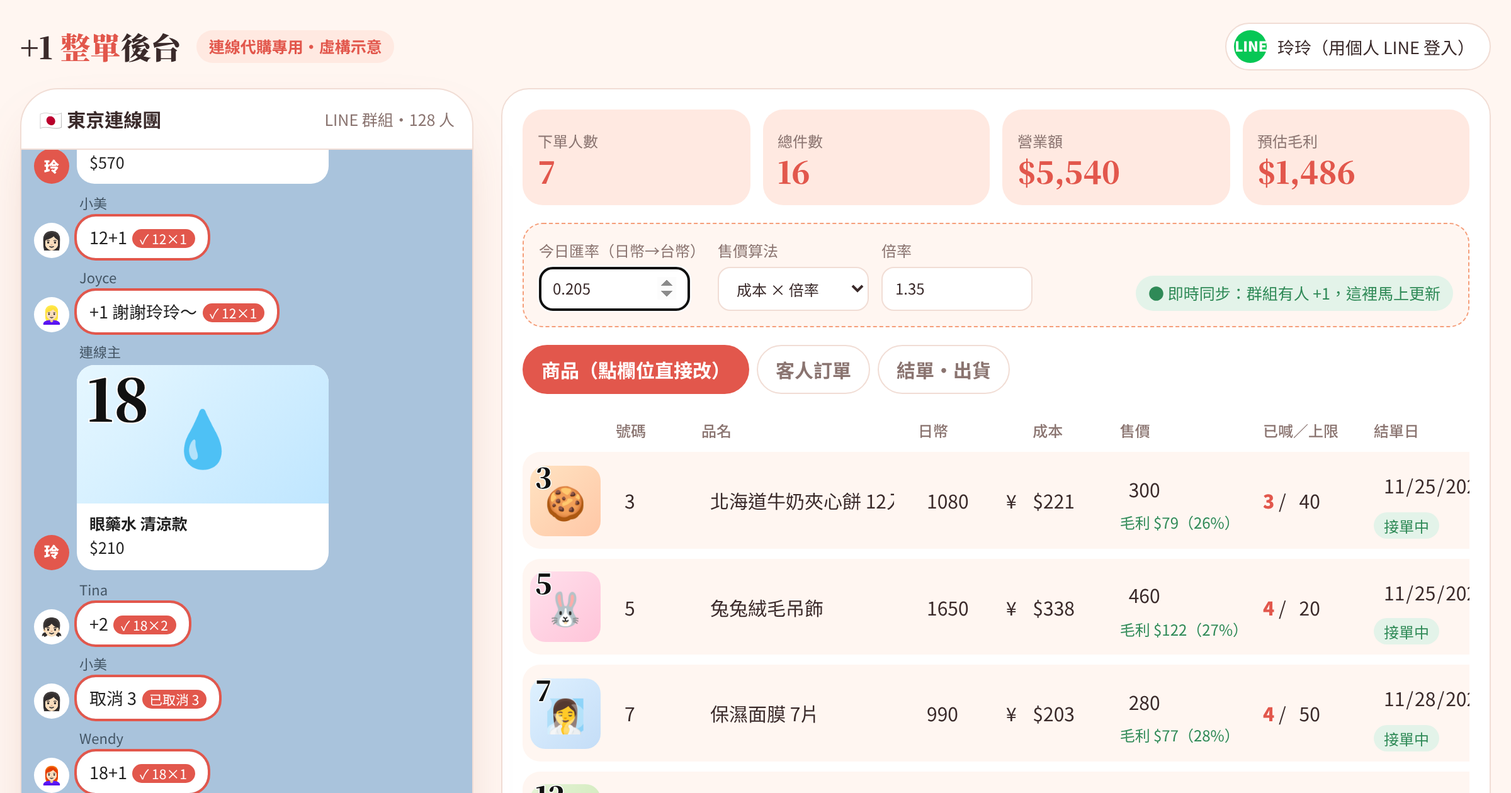
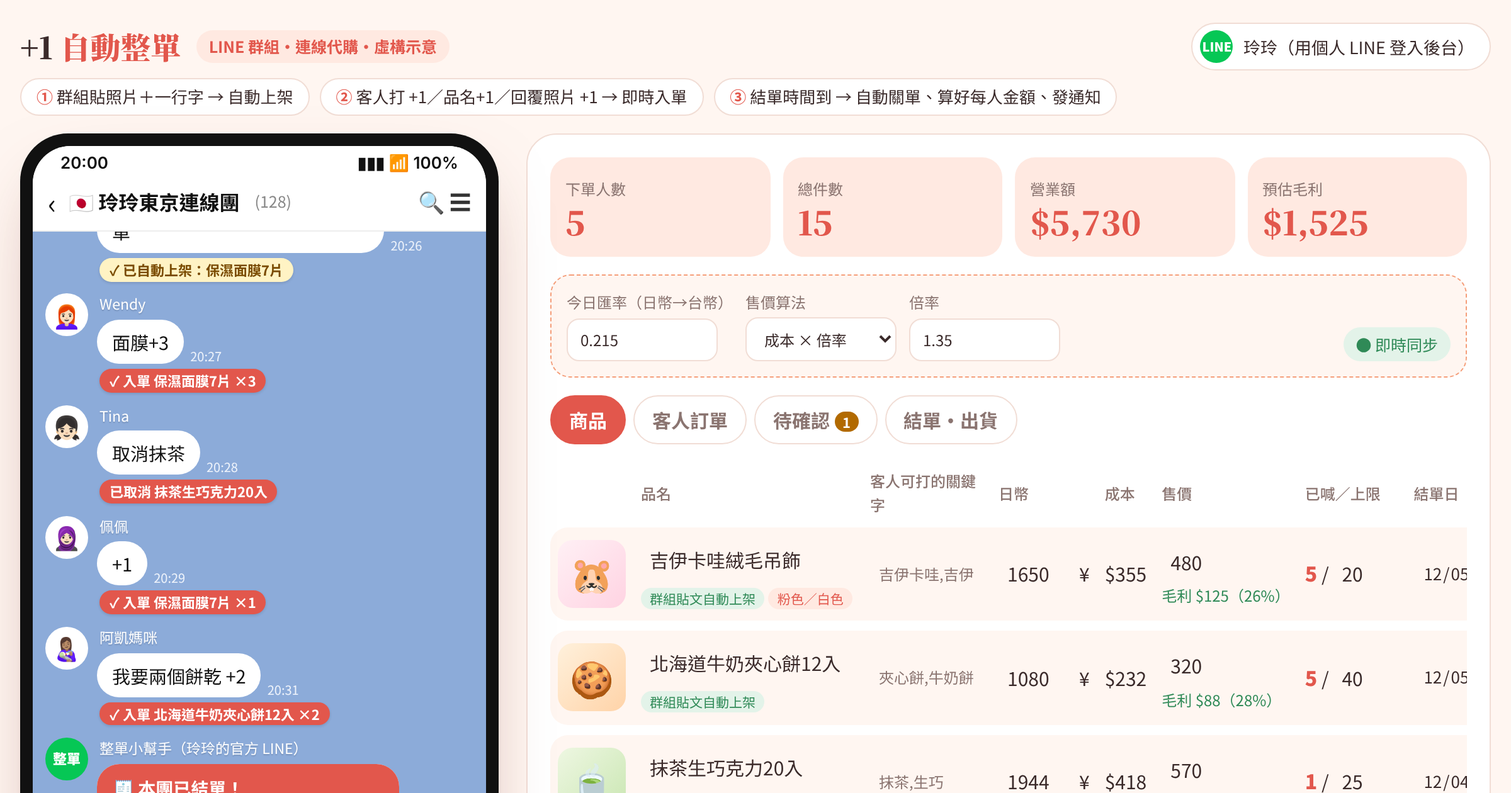
tuan/admin: realistic LINE group demo — photo post auto-listing, keyword/reply +1, pending queue, auto close
Claude-Session: https://claude.ai/code/session_01CsXAhp7vCL5MEVSnSQ8LnK

diff --git a/tuan/admin/index.html b/tuan/admin/index.html
@@ -1,82 +1,116 @@
 <!doctype html><html lang="zh-Hant"><head><meta charset="utf-8"><meta name="viewport" content="width=device-width,initial-scale=1,viewport-fit=cover">
-<meta name="description" content="連線代購後台示意：客人在 LINE 群組喊 +1 即時入單；網站後台用 LINE 登入，自己改日幣價、匯率、毛利、數量、品名、結單日（虛構示意）。">
-<meta property="og:title" content="+1 整單後台｜日幣×匯率自動算毛利"><meta property="og:image" content="https://gg86384577.github.io/zoare-images/tuan/admin/cover.png">
-<title>+1 整單後台</title>
+<meta name="description" content="連線代購 +1 自動整單示意：連線主在 LINE 群組貼照片就自動上架，客人打 +1、品名+1 或回覆照片 +1 即時入單，結單日自動關單、算好每位客人金額（虛構示意）。">
+<meta property="og:title" content="LINE 群組 +1 自動整單｜貼照片就上架、結單自動算"><meta property="og:image" content="https://gg86384577.github.io/zoare-images/tuan/admin/cover.png">
+<title>+1 自動整單</title>
 <link rel="stylesheet" href="https://fonts.googleapis.com/css2?family=Noto+Sans+TC:wght@400;500;700;900&family=Noto+Serif+TC:wght@700;900&display=swap">
 <style>
-:root{--bg:#fff6f1;--paper:#fff;--ink:#3a2a2a;--mut:#8a7470;--line:#f1ddd5;--ac:#e2574c;--ac2:#f59e7a;--soft:#ffe9e1;--bt:#ffe8a8;--chat:#a9c3dc;--gr:#06c755;--ok:#2f8a57;--okbg:#e3f3e9;--warn:#b26a00;--warnbg:#fff1d6;
+:root{--bg:#fff6f1;--paper:#fff;--ink:#3a2a2a;--mut:#8a7470;--line:#f1ddd5;--ac:#e2574c;--ac2:#f59e7a;--soft:#ffe9e1;--bt:#ffe8a8;--gr:#06c755;--ok:#2f8a57;--okbg:#e3f3e9;--warn:#b26a00;--warnbg:#fff1d6;
 --d:"Noto Serif TC",Georgia,serif;--b:"Noto Sans TC",-apple-system,"PingFang TC",sans-serif}
-@media (prefers-color-scheme:dark){:root:not([data-theme="light"]){--bg:#1f1817;--paper:#2b2221;--ink:#f6ebe7;--mut:#bba49e;--line:#463634;--ac:#ff8a7e;--ac2:#f7b195;--soft:#3e2a27;--bt:#4a3d1f;--chat:#33404d;--okbg:#1f3a2a;--ok:#7fd3a0;--warnbg:#3d3020;--warn:#f0c071;color-scheme:dark}}
-:root[data-theme="dark"]{--bg:#1f1817;--paper:#2b2221;--ink:#f6ebe7;--mut:#bba49e;--line:#463634;--ac:#ff8a7e;--ac2:#f7b195;--soft:#3e2a27;--bt:#4a3d1f;--chat:#33404d;--okbg:#1f3a2a;--ok:#7fd3a0;--warnbg:#3d3020;--warn:#f0c071;color-scheme:dark}
+@media (prefers-color-scheme:dark){:root:not([data-theme="light"]){--bg:#1f1817;--paper:#2b2221;--ink:#f6ebe7;--mut:#bba49e;--line:#463634;--ac:#ff8a7e;--ac2:#f7b195;--soft:#3e2a27;--bt:#4a3d1f;--okbg:#1f3a2a;--ok:#7fd3a0;--warnbg:#3d3020;--warn:#f0c071;color-scheme:dark}}
+:root[data-theme="dark"]{--bg:#1f1817;--paper:#2b2221;--ink:#f6ebe7;--mut:#bba49e;--line:#463634;--ac:#ff8a7e;--ac2:#f7b195;--soft:#3e2a27;--bt:#4a3d1f;--okbg:#1f3a2a;--ok:#7fd3a0;--warnbg:#3d3020;--warn:#f0c071;color-scheme:dark}
 *{box-sizing:border-box}[hidden]{display:none!important}html{-webkit-text-size-adjust:100%}
 body{margin:0;background:var(--bg);color:var(--ink);font:15px/1.55 var(--b);padding:18px max(16px,env(safe-area-inset-right)) 40px max(16px,env(safe-area-inset-left))}
-.top{max-width:1180px;margin:0 auto 14px;display:flex;align-items:center;gap:12px;flex-wrap:wrap}
+.top{max-width:1220px;margin:0 auto 6px;display:flex;align-items:center;gap:12px;flex-wrap:wrap}
 .logo{font-family:var(--d);font-weight:900;font-size:24px}.logo em{font-style:normal;color:var(--ac)}
 .tag{background:var(--soft);color:var(--ac);font-weight:700;font-size:12.5px;padding:3px 10px;border-radius:99px}
 .who{margin-left:auto;display:flex;align-items:center;gap:8px;background:var(--paper);border:1px solid var(--line);border-radius:99px;padding:5px 12px 5px 6px;font-size:13.5px}
-.who i{width:26px;height:26px;border-radius:50%;background:var(--gr);color:#fff;font-style:normal;font-weight:900;display:grid;place-items:center;font-size:11px}
-.wrap{max-width:1180px;margin:0 auto;display:grid;grid-template-columns:360px 1fr;gap:22px;align-items:start}
-@media(max-width:940px){.wrap{grid-template-columns:1fr}}
-/* phone */
-.phone{background:var(--paper);border:1px solid var(--line);border-radius:30px;overflow:hidden;box-shadow:0 20px 50px -24px rgba(160,70,50,.4);position:sticky;top:12px}
-.ph-h{display:flex;align-items:center;gap:8px;padding:12px 14px;border-bottom:1px solid var(--line);font-weight:700}
-.ph-h small{color:var(--mut);font-weight:400;margin-left:auto}
-.chat{background:var(--chat);height:520px;overflow:auto;padding:10px;display:flex;flex-direction:column;gap:7px}
-.m{display:flex;gap:6px;align-items:flex-end;max-width:94%}.m .av{width:28px;height:28px;border-radius:50%;background:#fff;display:grid;place-items:center;font-size:14px;flex:none}
-.m .nm{font-size:11px;color:#22303d;opacity:.75;margin:0 0 2px 2px}
-.bub{background:#fff;color:#222;border-radius:15px;padding:6px 10px;font-size:13.5px}
-.me{align-self:flex-end}.me .bub{background:#a6e38b}
-.q{font-size:11.5px;color:#666;border-left:3px solid var(--ac2);padding-left:6px;margin-bottom:3px}
-.hit{outline:2px solid var(--ac)}.ok{font-size:10.5px;background:var(--ac);color:#fff;border-radius:99px;padding:0 6px;margin-left:4px;white-space:nowrap}
-.pp{background:#fff;border-radius:14px;overflow:hidden;width:200px;color:#222}
-.pic{position:relative;display:grid;place-items:center;font-size:44px;height:110px}
-.num{position:absolute;left:8px;top:2px;font:900 46px/1 var(--d);color:#111;-webkit-text-stroke:2px #fff;paint-order:stroke}
-.pp div.c{padding:6px 10px 8px;font-size:12.5px}.pp b{display:block}
-.bar{display:flex;gap:6px;padding:8px;background:var(--paper);border-top:1px solid var(--line)}
-.bar input{flex:1;min-width:0;border:1px solid var(--line);border-radius:99px;padding:8px 12px;font:inherit;background:var(--bg);color:var(--ink)}
-.btn{border:0;border-radius:99px;padding:8px 14px;font:inherit;font-weight:700;cursor:pointer;background:var(--ac);color:#fff;min-height:38px}
+.who i{width:26px;height:26px;border-radius:50%;background:var(--gr);color:#fff;font-style:normal;font-weight:900;display:grid;place-items:center;font-size:10px}
+.steps{max-width:1220px;margin:0 auto 14px;display:flex;gap:8px;flex-wrap:wrap;font-size:13px}
+.steps span{background:var(--paper);border:1px solid var(--line);border-radius:99px;padding:4px 12px}.steps b{color:var(--ac)}
+.wrap{max-width:1220px;margin:0 auto;display:grid;grid-template-columns:380px 1fr;gap:22px;align-items:start}.wrap>*{min-width:0}
+@media(max-width:960px){.wrap{grid-template-columns:1fr}}
+/* ---------- LINE phone ---------- */
+.phone{border-radius:38px;background:#111;padding:10px;box-shadow:0 24px 60px -26px rgba(120,50,40,.55);position:sticky;top:12px}
+.scr{border-radius:30px;overflow:hidden;background:#fff;display:flex;flex-direction:column;height:720px}
+@media(max-width:960px){.phone{position:static}.scr{height:640px}}
+.sb{display:flex;justify-content:space-between;padding:8px 22px 2px;font:600 13px/1 -apple-system,sans-serif;color:#111;background:#fff}
+.lh{display:flex;align-items:center;gap:10px;padding:8px 12px 10px;background:#fff;color:#111;border-bottom:1px solid #eee}
+.lh .bk{font-size:22px;line-height:1}.lh b{font-size:16px}.lh small{color:#888;font-weight:400;margin-left:2px}.lh .ic{margin-left:auto;display:flex;gap:14px;font-size:17px;color:#333}
+.chat{flex:1;background:#8cabd9;overflow:auto;padding:10px 10px 14px;display:flex;flex-direction:column;gap:9px;scroll-behavior:smooth}
+.day{align-self:center;background:rgba(0,0,0,.18);color:#fff;font-size:11.5px;border-radius:99px;padding:2px 10px}
+.m{display:flex;gap:7px;align-items:flex-start;max-width:88%}
+.m .av{width:34px;height:34px;border-radius:50%;flex:none;display:grid;place-items:center;font-size:18px;background:#fff}
+.m .nm{font-size:11.5px;color:#fff;margin:0 0 3px 2px;text-shadow:0 1px 1px rgba(0,0,0,.15)}
+.m .rw{display:flex;align-items:flex-end;gap:5px}
+.t{font-size:10px;color:#eef3fb;white-space:nowrap;line-height:1.3}
+.bub{background:#fff;color:#111;border-radius:18px;padding:7px 12px;font-size:14.5px;line-height:1.45;word-break:break-word;position:relative}
+.me{align-self:flex-end;max-width:80%}.me .rw{flex-direction:row-reverse}.me .bub{background:#8de055}.me .t{text-align:right}
+.photo{width:190px;height:190px;border-radius:16px;display:grid;place-items:center;font-size:72px;position:relative;overflow:hidden;box-shadow:inset 0 0 0 1px rgba(0,0,0,.05)}
+.photo i{position:absolute;right:8px;bottom:6px;font:700 11px/1 var(--b);color:#fff;font-style:normal;background:rgba(0,0,0,.35);padding:3px 6px;border-radius:6px}
+.qt{display:flex;gap:7px;align-items:center;border-bottom:1px solid #e3e3e3;padding:0 0 6px;margin:0 0 6px}
+.qt .mini{width:34px;height:34px;border-radius:6px;display:grid;place-items:center;font-size:18px;flex:none}
+.qt span{font-size:11.5px;color:#888;line-height:1.3}
+/* demo annotation chips (not part of LINE) */
+.chip{display:inline-block;margin:4px 0 0 2px;font:700 11px/1.5 var(--b);padding:1px 8px;border-radius:99px;background:#fff3c4;color:#7a4b00;box-shadow:0 1px 2px rgba(0,0,0,.12)}
+.chip.ok{background:#e2574c;color:#fff}.chip.no{background:#666;color:#fff}.chip.q{background:#fff;color:#b26a00}
+.me .chip{float:right}
+.oa .av{background:#06c755;color:#fff;font:900 11px/1 var(--b)}
+.card{background:#fff;border-radius:18px;overflow:hidden;width:240px;color:#111}
+.card h5{margin:0;background:#e2574c;color:#fff;padding:9px 12px;font-size:14px}
+.card div{padding:9px 12px;font-size:13px;line-height:1.6;white-space:pre-line}
+.card a{display:block;text-align:center;border-top:1px solid #eee;padding:9px;color:#06c755;font-weight:700;text-decoration:none;font-size:13.5px}
+.lin{display:flex;align-items:center;gap:8px;padding:8px 10px;background:#fff;border-top:1px solid #eee}
+.lin .pl{font-size:22px;color:#555;line-height:1}
+.lin input{flex:1;min-width:0;border:0;background:#f1f2f4;border-radius:99px;padding:9px 14px;font:15px var(--b);color:#111}
+.lin button{border:0;background:#06c755;color:#fff;border-radius:99px;padding:8px 14px;font:700 14px var(--b);cursor:pointer}
+.ctrl{background:var(--paper);border:1px solid var(--line);border-radius:18px;padding:10px;margin-top:10px;display:grid;gap:8px}
+.ctrl p{margin:0;font-size:12px;color:var(--mut)}
+.qk{display:flex;flex-wrap:wrap;gap:6px}
+.qk button{border:1px solid var(--line);background:var(--bg);color:var(--ink);border-radius:99px;padding:5px 11px;font:13px var(--b);cursor:pointer;min-height:34px}
+.btn{border:0;border-radius:99px;padding:8px 16px;font:inherit;font-weight:700;cursor:pointer;background:var(--ac);color:#fff;min-height:40px}
 .btn.g{background:var(--soft);color:var(--ac)}.btn.l{background:var(--gr)}
-.quick{display:flex;flex-wrap:wrap;gap:6px;padding:0 8px 8px;background:var(--paper)}
-.quick button{border:1px solid var(--line);background:var(--bg);color:var(--ink);border-radius:99px;padding:4px 10px;font:inherit;font-size:12.5px;cursor:pointer;min-height:32px}
-/* admin */
-.panel{background:var(--paper);border:1px solid var(--line);border-radius:22px;padding:16px}
+.big{font-size:15.5px;padding:11px 18px}
+/* ---------- admin ---------- */
+.panel{background:var(--paper);border:1px solid var(--line);border-radius:24px;padding:18px}
 .kpi{display:grid;grid-template-columns:repeat(4,1fr);gap:10px;margin-bottom:14px}
 @media(max-width:600px){.kpi{grid-template-columns:repeat(2,1fr)}}
-.kpi div{background:var(--soft);border-radius:16px;padding:12px}.kpi span{font-size:12px;color:var(--mut)}.kpi b{display:block;font:900 24px/1.2 var(--d);color:var(--ac)}
+.kpi div{background:var(--soft);border-radius:16px;padding:12px}.kpi span{font-size:12px;color:var(--mut)}.kpi b{display:block;font:900 26px/1.2 var(--d);color:var(--ac)}
 .set{display:flex;flex-wrap:wrap;gap:10px;align-items:end;background:var(--bg);border:1px dashed var(--ac2);border-radius:16px;padding:12px;margin-bottom:14px}
 .set label{font-size:12px;color:var(--mut);display:grid;gap:3px}
 .set input,.set select{font:inherit;border:1px solid var(--line);border-radius:10px;padding:7px 10px;background:var(--paper);color:var(--ink);width:120px}
-.set .live{margin-left:auto;font-size:12.5px;color:var(--ok);background:var(--okbg);padding:4px 10px;border-radius:99px}
+.live{margin-left:auto;font-size:12.5px;color:var(--ok);background:var(--okbg);padding:4px 10px;border-radius:99px}
 .tabs{display:flex;gap:6px;margin-bottom:12px;flex-wrap:wrap}.tabs button{border:1px solid var(--line);background:var(--paper);color:var(--mut);border-radius:99px;padding:7px 14px;font:inherit;font-weight:700;cursor:pointer}
-.tabs button.on{background:var(--ac);border-color:var(--ac);color:#fff}
-.tbl{width:100%;border-collapse:separate;border-spacing:0 8px}
+.tabs button.on{background:var(--ac);border-color:var(--ac);color:#fff}.tabs em{font-style:normal;background:var(--warn);color:#fff;border-radius:99px;padding:0 6px;font-size:11px;margin-left:4px}
+.scroll{overflow-x:auto}
+.tbl{width:100%;border-collapse:separate;border-spacing:0 8px;min-width:780px}
 .tbl th{font-size:12px;color:var(--mut);font-weight:500;text-align:left;padding:0 6px}
 .tbl td{background:var(--bg);padding:8px 6px;vertical-align:middle}.tbl td:first-child{border-radius:14px 0 0 14px}.tbl td:last-child{border-radius:0 14px 14px 0}
-.th{width:56px;height:56px;border-radius:12px;position:relative;display:grid;place-items:center;font-size:26px}
-.th span{position:absolute;left:4px;top:-2px;font:900 22px/1 var(--d);color:#111;-webkit-text-stroke:1.5px #fff;paint-order:stroke}
+.th{width:54px;height:54px;border-radius:12px;display:grid;place-items:center;font-size:28px}
 .tbl input{font:inherit;border:1px solid transparent;background:transparent;color:var(--ink);border-radius:8px;padding:5px 6px;width:100%}
 .tbl input:hover,.tbl input:focus{border-color:var(--line);background:var(--paper);outline:none}
-.tbl .n{width:92px;white-space:nowrap}.tbl .s{width:56px}.tbl td.nm input{min-width:160px}.tbl input[type=date]{width:138px}.wrap>*{min-width:0}.tbl{min-width:820px}
+.tbl td.nm input{min-width:170px}.tbl td.kw input{min-width:90px;font-size:12px;color:var(--mut)}.tbl input[type=date]{width:128px;font-size:13px}.tbl td{white-space:nowrap}.tbl td.nm,.tbl td.kw{white-space:normal}
+.auto{font-size:10.5px;background:var(--okbg);color:var(--ok);border-radius:99px;padding:1px 7px;white-space:nowrap}
 .pr{font-weight:700}.gm{font-size:12px;color:var(--ok)}.gm.low{color:var(--warn)}
-.cnt{font-weight:900;color:var(--ac)}.flash{animation:fl .9s}@keyframes fl{0%{background:var(--bt)}100%{background:var(--bg)}}
-.dl{font-size:12px;padding:2px 8px;border-radius:99px;background:var(--okbg);color:var(--ok);white-space:nowrap}.dl.soon{background:var(--warnbg);color:var(--warn)}
-.scroll{overflow-x:auto}
-.ord{display:grid;gap:10px}.oc{background:var(--bg);border-radius:16px;padding:12px}
-.oc h4{margin:0 0 6px;display:flex;justify-content:space-between;font-size:14.5px}
-.row{display:flex;justify-content:space-between;gap:8px;font-size:13.5px;padding:3px 0;border-top:1px dashed var(--line)}
+.cnt{font-weight:900;color:var(--ac);font-size:16px}.flash{animation:fl 1s}@keyframes fl{0%{background:var(--bt)}100%{background:var(--bg)}}
+.dl{font-size:12px;padding:2px 8px;border-radius:99px;background:var(--okbg);color:var(--ok);white-space:nowrap}.dl.soon{background:var(--warnbg);color:var(--warn)}.dl.end{background:#8883;color:var(--mut)}
+.empty{color:var(--mut);font-size:13.5px;text-align:center;padding:26px 10px;background:var(--bg);border-radius:16px}
+.ord{display:grid;gap:10px}.oc{background:var(--bg);border-radius:16px;padding:12px 14px}
+.oc h4{margin:0 0 6px;display:flex;justify-content:space-between;gap:8px;font-size:14.5px}
+.row{display:flex;justify-content:space-between;gap:8px;font-size:13.5px;padding:4px 0;border-top:1px dashed var(--line)}
 .ship{font-size:11.5px;background:var(--soft);color:var(--ac);border-radius:99px;padding:1px 8px;margin-left:6px}
+.pend{display:flex;justify-content:space-between;align-items:center;gap:10px;flex-wrap:wrap}
+.pend select{font:inherit;border:1px solid var(--line);border-radius:10px;padding:6px 8px;background:var(--paper);color:var(--ink)}
 .note{white-space:pre-line;background:#06c75512;border:1px solid #06c75540;border-radius:14px;padding:10px 12px;font-size:13.5px}
 .hint{color:var(--mut);font-size:12.5px;margin:8px 0 0}
 .toast{position:fixed;left:50%;bottom:22px;transform:translateX(-50%);background:#222;color:#fff;padding:8px 16px;border-radius:99px;font-size:14px;opacity:0;transition:.25s;pointer-events:none;z-index:9}.toast.on{opacity:1}
 </style></head><body>
-<div class="top"><span class="logo">+1 <em>整單</em>後台</span><span class="tag">連線代購專用・虛構示意</span>
-<span class="who"><i>LINE</i>玲玲（用個人 LINE 登入）</span></div>
+<div class="top"><span class="logo">+1 <em>自動整單</em></span><span class="tag">LINE 群組・連線代購・虛構示意</span>
+<span class="who"><i>LINE</i>玲玲（用個人 LINE 登入後台）</span></div>
+<div class="steps"><span><b>①</b> 群組貼照片＋一行字 → 自動上架</span><span><b>②</b> 客人打 +1／品名+1／回覆照片 +1 → 即時入單</span><span><b>③</b> 結單時間到 → 自動關單、算好每人金額、發通知</span></div>
 <div class="wrap">
-<div class="phone">
-  <div class="ph-h">🇯🇵 東京連線團<small>LINE 群組・128 人</small></div>
-  <div class="chat" id="chat"></div>
-  <div class="quick"><button data-q="3+1">3+1</button><button data-q="5 粉色+2">5 粉色+2</button><button data-q="7+1">7+1</button><button data-q="取消 3">取消 3</button><button id="sim" style="background:var(--soft);color:var(--ac);border-color:transparent;font-weight:700">▶ 模擬喊單</button></div>
-  <form class="bar" id="f"><input id="in" placeholder="以「你」留言，例如 3+1" autocomplete="off"><button class="btn">送出</button></form>
+<div>
+ <div class="phone"><div class="scr">
+  <div class="sb"><span>20:00</span><span>▮▮▮ 📶 100%</span></div>
+  <div class="lh"><span class="bk">‹</span><b>🇯🇵 玲玲東京連線團</b><small>(128)</small><span class="ic">🔍 ☰</span></div>
+  <div class="chat" id="chat"><div class="day">今天</div></div>
+  <form class="lin" id="f"><span class="pl">＋</span><input id="in" placeholder="以客人身分留言，例如 吉伊卡哇+1" autocomplete="off"><button>傳送</button></form>
+ </div></div>
+ <div class="ctrl">
+  <button class="btn big" id="sim">▶ 播放一場直播（約 30 秒）</button>
+  <p>或自己點，扮演客人留言：</p>
+  <div class="qk"><button data-q="+1">+1</button><button data-q="吉伊卡哇 粉色+1">吉伊卡哇 粉色+1</button><button data-q="抹茶+2">抹茶+2</button><button data-q="+1" data-r="1">回覆第一張照片 +1</button><button data-q="取消抹茶">取消抹茶</button></div>
+  <button class="btn g" id="close">⏰ 模擬「結單時間到」</button>
+ </div>
 </div>
 <div class="panel">
   <div class="kpi"><div><span>下單人數</span><b id="k1">0</b></div><div><span>總件數</span><b id="k2">0</b></div><div><span>營業額</span><b id="k3">$0</b></div><div><span>預估毛利</span><b id="k4">$0</b></div></div>
@@ -85,69 +119,106 @@ body{margin:0;background:var(--bg);color:var(--ink);font:15px/1.55 var(--b);padd
     <label>售價算法<select id="mode"><option value="x">成本 × 倍率</option><option value="p">成本 + 固定加價</option></select></label>
     <label id="lx">倍率<input id="mul" type="number" step="0.05" value="1.35"></label>
     <label id="lp" hidden>每件加價（台幣）<input id="add" type="number" step="10" value="120"></label>
-    <span class="live">● 即時同步：群組有人 +1，這裡馬上更新</span>
+    <span class="live">● 即時同步</span>
   </div>
-  <div class="tabs"><button class="on" data-t="p">商品（點欄位直接改）</button><button data-t="o">客人訂單</button><button data-t="c">結單・出貨</button></div>
+  <div class="tabs"><button class="on" data-t="p">商品</button><button data-t="o">客人訂單</button><button data-t="w">待確認<em id="wc" hidden>0</em></button><button data-t="c">結單・出貨</button></div>
   <div id="v-p" class="scroll"></div>
   <div id="v-o" hidden></div>
+  <div id="v-w" hidden></div>
   <div id="v-c" hidden></div>
 </div>
 </div>
 <div class="toast" id="toast"></div>
 <script>
 const $=s=>document.querySelector(s);
-const today=new Date();const ds=d=>{const x=new Date(today);x.setDate(x.getDate()+d);return x.toISOString().slice(0,10)};
-let P=[
- {n:3,name:"北海道牛奶夾心餅 12入",jpy:1080,lim:40,dl:ds(2),e:"🍪",bg:"linear-gradient(135deg,#ffe3c2,#ffc7a6)",over:null},
- {n:5,name:"兔兔絨毛吊飾",jpy:1650,lim:20,dl:ds(2),e:"🐰",bg:"linear-gradient(135deg,#ffe0ec,#ffc4d9)",opt:["粉色","白色"],over:null},
- {n:7,name:"保濕面膜 7片",jpy:990,lim:50,dl:ds(5),e:"🧖♀",bg:"linear-gradient(135deg,#dff1ff,#c4ddf7)",over:null},
- {n:12,name:"抹茶生巧克力 20入",jpy:1944,lim:25,dl:ds(1),e:"🍵",bg:"linear-gradient(135deg,#e5f3d6,#c9e6b1)",over:null},
- {n:18,name:"眼藥水 清涼款",jpy:698,lim:60,dl:ds(5),e:"💧",bg:"linear-gradient(135deg,#e6f7ff,#bfe6ff)",over:null}];
+const today=new Date();
+const esc=s=>String(s).replace(/[&<>"]/g,c=>({"&":"&amp;","<":"&lt;",">":"&gt;",'"':"&quot;"}[c]));
+function toast(t){const e=$("#toast");e.textContent=t;e.classList.add("on");clearTimeout(e._t);e._t=setTimeout(()=>e.classList.remove("on"),1800)}
+// products are created from the seller's chat posts
+const LIB={
+ "吉伊卡哇":{e:"🐹",bg:"linear-gradient(135deg,#fff0f5,#ffd3e2)",kw:"吉伊卡哇,吉伊,chiikawa,小可愛"},
+ "北海道牛奶夾心餅":{e:"🍪",bg:"linear-gradient(135deg,#fff1dc,#ffd3a8)",kw:"夾心餅,牛奶餅,餅乾"},
+ "抹茶生巧克力":{e:"🍵",bg:"linear-gradient(135deg,#eef7e2,#c9e6b1)",kw:"抹茶,生巧"},
+ "保濕面膜":{e:"🧖♀",bg:"linear-gradient(135deg,#e6f3ff,#c4ddf7)",kw:"面膜"}};
+let P=[],orders={},pending=[],last=null,closed=false,clock=20*60,photoQ=null;
 const SHIP={"小美":"7-11","Joyce":"全家","阿凱媽咪":"郵局","Wendy":"面交","佩佩":"7-11","Tina":"全家","小葉":"7-11","你":"7-11"};
 const FEE={"7-11":60,"全家":60,"郵局":80,"面交":0};
 const AV={"你":"🙋","小美":"👩🏻","Joyce":"👱🏻♀","阿凱媽咪":"👩🏽🍼","Wendy":"👩🏻🦰","佩佩":"🧕🏻","Tina":"👧🏻","小葉":"🧑🏻"};
-let orders={},last=null,tab="p";
-const esc=s=>String(s).replace(/[&<>"]/g,c=>({"&":"&amp;","<":"&lt;",">":"&gt;",'"':"&quot;"}[c]));
-function toast(t){const e=$("#toast");e.textContent=t;e.classList.add("on");clearTimeout(e._t);e._t=setTimeout(()=>e.classList.remove("on"),1700)}
 const fx=()=>+$("#fx").value||0;
-function cost(p){return Math.round(p.jpy*fx())}
-function price(p){if(p.over!=null)return p.over;const c=cost(p);return $("#mode").value==="x"?Math.ceil(c*(+$("#mul").value||1)/10)*10:c+(+$("#add").value||0)}
-const byN=n=>P.find(p=>p.n==n);
-function qty(n){let q=0;for(const o of Object.values(orders))for(const[k,v]of Object.entries(o))if(k.split("|")[0]==n)q+=v;return q}
-function post(p){const d=document.createElement("div");d.className="m";d.innerHTML='<div class="av" style="background:var(--ac);color:#fff;font-weight:900;font-size:12px">玲</div><div><div class="nm">連線主</div><div class="pp"><div class="pic" style="background:'+p.bg+'"><span class="num">'+p.n+'</span>'+p.e+'</div><div class="c"><b>'+esc(p.name)+'</b>$'+price(p)+(p.opt?'・'+p.opt.join('／'):'')+'</div></div></div>';$("#chat").appendChild(d);last=p.n}
-function parse(t){t=t.replace(/＋/g,"+").replace(/\s+/g," ").trim();let m=t.match(/^(取消|不要了?)\s*(\d{1,3})/);if(m)return[{n:+m[2],cancel:1}];
- const r=[],re=/(\d{1,3})?\s*(?:號)?\s*(粉色|白色)?\s*\+\s*(\d{1,2})\s*(粉色|白色)?/g;while((m=re.exec(t))){const n=m[1]?+m[1]:last;if(byN(n))r.push({n,q:+m[3],opt:m[2]||m[4]||""})}return r}
-function say(who,text,quote){const res=parse(text),d=document.createElement("div");d.className="m"+(who==="你"?" me":"");let tag="";
- res.forEach(x=>{orders[who]=orders[who]||{};if(x.cancel){for(const k in orders[who])if(k.split("|")[0]==x.n)delete orders[who][k];tag+='<span class="ok">已取消 '+x.n+'</span>'}
-  else{const p=byN(x.n);if(qty(x.n)+x.q>p.lim){tag+='<span class="ok" style="background:#999">'+x.n+' 已額滿</span>';return}const k=x.n+"|"+x.opt;orders[who][k]=(orders[who][k]||0)+x.q;tag+='<span class="ok">✓ '+x.n+(x.opt||"")+'×'+x.q+'</span>';flash(x.n)}});
+const cost=p=>Math.round(p.jpy*fx());
+const price=p=>{if(p.over!=null)return p.over;const c=cost(p);return $("#mode").value==="x"?Math.ceil(c*(+$("#mul").value||1)/10)*10:c+(+$("#add").value||0)};
+const byId=id=>P.find(p=>p.id===id);
+function qty(id){let q=0;for(const o of Object.values(orders))for(const[k,v]of Object.entries(o))if(k.split("|")[0]==id)q+=v;return q}
+function tm(){clock+=1+Math.floor(Math.random()*2);return String(Math.floor(clock/60)%24).padStart(2,"0")+":"+String(clock%60).padStart(2,"0")}
+function add(html){const c=$("#chat");c.insertAdjacentHTML("beforeend",html);c.scrollTop=c.scrollHeight}
+// --- seller posts photo, then a text line ---
+function sellerPhoto(key){photoQ=key;const L=LIB[key];
+ add('<div class="m" data-photo="'+key+'"><div class="av" style="background:#e2574c;color:#fff;font:900 13px/1 var(--b)">玲</div><div><div class="nm">玲玲🌷（連線主）</div><div class="rw"><div class="photo" style="background:'+L.bg+'">'+L.e+'<i>📷 現場拍</i></div><span class="t">'+tm()+'</span></div></div></div>')}
+function parseListing(t){const m=t.match(/^(.+?)\s*[¥￥]\s*(\d+)(?:\s*限\s*(\d+))?(?:\s*([^\s\d]+\/[^\s\d]+))?(?:\s*(\d{1,2})\/(\d{1,2})\s*結單)?/);if(!m)return null;
+ const y=today.getFullYear();return{name:m[1].trim(),jpy:+m[2],lim:m[3]?+m[3]:99,opt:m[4]?m[4].split("/"):null,dl:m[5]?y+"-"+String(m[5]).padStart(2,"0")+"-"+String(m[6]).padStart(2,"0"):""}}
+function sellerText(t){const L=parseListing(t);let chip="";
+ if(L&&photoQ){const base=Object.keys(LIB).find(k=>L.name.includes(k))||photoQ,lib=LIB[base];
+  const p={id:"p"+(P.length+1),name:L.name,jpy:L.jpy,lim:L.lim,opt:L.opt,dl:L.dl,e:lib.e,bg:lib.bg,kw:lib.kw,photo:photoQ,over:null,isNew:1};P.push(p);last=p.id;photoQ=null;
+  chip='<div><span class="chip">✓ 已自動上架：'+esc(p.name)+'</span></div>'}
+ add('<div class="m"><div class="av" style="background:#e2574c;color:#fff;font:900 13px/1 var(--b)">玲</div><div><div class="nm">玲玲🌷（連線主）</div><div class="rw"><div class="bub">'+esc(t)+'</div><span class="t">'+tm()+'</span></div>'+chip+'</div></div>');render();if(chip)toast("後台已自動新增商品 👉")}
+// --- customer +1 parsing ---
+function findByText(s){s=s.toLowerCase();for(const p of P){const keys=[p.name,...p.kw.split(",")].map(x=>x.trim().toLowerCase()).filter(Boolean);if(keys.some(k=>s.includes(k)))return p}return null}
+function parse(t,quoted){t=t.replace(/＋/g,"+").replace(/\s+/g," ").trim();
+ let m=t.match(/^(取消|不要了?)\s*(.*)$/);if(m){const p=m[2]?findByText(m[2]):(quoted?byId(quoted):byId(last));return p?[{id:p.id,cancel:1}]:[{unk:t}]}
+ const r=[],re=/([^+]*?)\+\s*(\d{1,2})/g;let seg;
+ while((seg=re.exec(t))){let pre=seg[1].replace(/[，,、。!！~～]/g," ").trim();const q=+seg[2];
+  const opt=(pre.match(/(粉色|白色|粉|白)/)||t.slice(re.lastIndex).match(/^\s*(粉色|白色|粉|白)/)||[])[1];const optN=opt?(opt.length===1?opt+"色":opt):"";
+  const rest=pre.replace(/(粉色|白色|粉|白)/,"").replace(/我要|要|謝謝.*|玲玲/g,"").trim();
+  let p=null;if(rest){p=findByText(rest);if(!p){r.push({unk:t});continue}}else p=quoted?byId(quoted):byId(last);
+  if(p)r.push({id:p.id,q,opt:p.opt?(optN||""):""})}
+ return r}
+function say(who,text,quotedKey){const quoted=quotedKey?(P.find(p=>p.photo===quotedKey)||{}).id:null;const res=parse(text,quoted);let chips="";
+ res.forEach(x=>{if(x.unk){pending.push({who,text});chips+='<span class="chip q">? 看不懂，放進「待確認」</span>';return}
+  const p=byId(x.id);orders[who]=orders[who]||{};
+  if(x.cancel){let had=0;for(const k in orders[who])if(k.split("|")[0]==x.id){delete orders[who][k];had=1}chips+='<span class="chip ok">已取消 '+esc(p.name)+'</span>';return}
+  if(closed||p.closed){chips+='<span class="chip no">已結單，未入單</span>';return}
+  if(qty(x.id)+x.q>p.lim){chips+='<span class="chip no">'+esc(p.name)+' 已額滿</span>';return}
+  const k=x.id+"|"+x.opt;orders[who][k]=(orders[who][k]||0)+x.q;p.fl=1;chips+='<span class="chip ok">✓ 入單 '+esc(p.name)+(x.opt?"（"+x.opt+"）":"")+' ×'+x.q+'</span>'});
  if(orders[who]&&!Object.keys(orders[who]).length)delete orders[who];
- d.innerHTML=(who==="你"?'':'<div class="av">'+(AV[who]||"🙂")+'</div>')+'<div>'+(who==="你"?'':'<div class="nm">'+esc(who)+'</div>')+'<div class="bub'+(res.length?' hit':'')+'">'+(quote?'<div class="q">回覆 '+quote+' 號照片</div>':'')+esc(text)+tag+'</div></div>';
- $("#chat").appendChild(d);$("#chat").scrollTop=1e6;render()}
-let fl=new Set();function flash(n){fl.add(n)}
-function render(){let n=0,items=0,rev=0,gp=0;const people=[];
- for(const[who,o]of Object.entries(orders)){let sum=0,c=0;const lines=[];for(const[k,q]of Object.entries(o)){const[pn,opt]=k.split("|"),p=byN(pn);lines.push({p,opt,q});sum+=price(p)*q;c+=cost(p)*q;items+=q}n++;rev+=sum;gp+=sum-c;people.push({who,lines,sum,ship:SHIP[who]||"7-11"})}
- $("#k1").textContent=n;$("#k2").textContent=items;$("#k3").textContent="$"+rev.toLocaleString();$("#k4").textContent="$"+gp.toLocaleString();
+ const me=who==="你",Lq=quotedKey?LIB[quotedKey]:null;
+ const qhtml=Lq?'<div class="qt"><div class="mini" style="background:'+Lq.bg+'">'+Lq.e+'</div><span>玲玲🌷<br>照片</span></div>':'';
+ add('<div class="m'+(me?' me':'')+'">'+(me?'':'<div class="av">'+(AV[who]||"🙂")+'</div>')+'<div>'+(me?'':'<div class="nm">'+esc(who)+'</div>')+'<div class="rw"><div class="bub">'+qhtml+esc(text)+'</div><span class="t">'+(me?'已讀 12<br>':'')+tm()+'</span></div>'+(chips?'<div>'+chips+'</div>':'')+'</div></div>');
+ render()}
+// --- auto close ---
+function people(){const L=[];for(const[who,o]of Object.entries(orders)){let sum=0,c=0,items=0;const lines=[];for(const[k,q]of Object.entries(o)){const[id,opt]=k.split("|"),p=byId(id);lines.push({p,opt,q});sum+=price(p)*q;c+=cost(p)*q;items+=q}L.push({who,lines,sum,c,items,ship:SHIP[who]||"7-11"})}return L}
+function doClose(){if(closed)return;closed=true;P.forEach(p=>p.closed=1);const U=people(),items=U.reduce((a,u)=>a+u.items,0);
+ add('<div class="m oa"><div class="av">整單</div><div><div class="nm">整單小幫手（玲玲的官方 LINE）</div><div class="rw"><div class="card"><h5>🧾 本團已結單！</h5><div>共 '+U.length+' 位、'+items+' 件，謝謝大家 💕\n個人明細已用 LINE 私訊給每位，\n請點下面確認取貨門市～</div><a>查看我的訂單</a></div><span class="t">'+tm()+'</span></div></div></div>');
+ render();document.querySelector('.tabs [data-t="c"]').click();toast("已自動結單，明細算好了 👉")}
+// --- admin render ---
+function render(){const U=people();let items=0,rev=0,gp=0;U.forEach(u=>{items+=u.items;rev+=u.sum;gp+=u.sum-u.c});
+ $("#k1").textContent=U.length;$("#k2").textContent=items;$("#k3").textContent="$"+rev.toLocaleString();$("#k4").textContent="$"+gp.toLocaleString();
  const ae=document.activeElement&&document.activeElement.closest&&document.activeElement.closest("#v-p")?[document.activeElement.dataset.i,document.activeElement.dataset.f]:null;
- $("#v-p").innerHTML='<table class="tbl"><thead><tr><th></th><th>號碼</th><th>品名</th><th>日幣</th><th>成本</th><th>售價</th><th>已喊／上限</th><th>結單日</th></tr></thead><tbody>'+P.map((p,i)=>{const pr=price(p),c=cost(p),g=pr-c,gr=pr?Math.round(g/pr*100):0,q=qty(p.n),soon=(new Date(p.dl)-today)/864e5<1.5;
-  return '<tr><td><div class="th" style="background:'+p.bg+'"><span>'+p.n+'</span>'+p.e+'</div></td><td class="s"><input data-i="'+i+'" data-f="n" value="'+p.n+'" class="s"></td><td class="nm"><input data-i="'+i+'" data-f="name" value="'+esc(p.name)+'"></td><td class="n"><input data-i="'+i+'" data-f="jpy" type="number" value="'+p.jpy+'" style="width:70px;display:inline">¥</td><td class="n">$'+c+'</td><td class="n"><input data-i="'+i+'" data-f="over" type="number" class="pr" value="'+pr+'"><div class="gm'+(gr<15?' low':'')+'">毛利 $'+g+'（'+gr+'%）</div></td><td class="n'+(fl.has(p.n)?' flash':'')+'"><span class="cnt">'+q+'</span> / <input data-i="'+i+'" data-f="lim" type="number" value="'+p.lim+'" style="width:50px;display:inline"></td><td><input data-i="'+i+'" data-f="dl" type="date" value="'+p.dl+'"><span class="dl'+(soon?' soon':'')+'">'+(soon?'快結單':'接單中')+'</span></td></tr>'}).join("")+'</tbody></table><p class="hint">改日幣或匯率，成本、售價、毛利會自動重算；售價也可以手動改。品名、數量上限、結單日都能直接點來改，存檔後群組裡的商品資訊同步更新。</p>';
- fl.clear();
- if(ae){const el=document.querySelector('#v-p [data-i="'+ae[0]+'"][data-f="'+ae[1]+'"]');if(el){el.focus();const v=el.value;if(el.type!=="date"&&el.type!=="number"){el.value="";el.value=v}}}
- $("#v-o").innerHTML=people.length?'<div class="ord">'+people.map(u=>'<div class="oc"><h4><span>'+esc(u.who)+'<span class="ship">'+u.ship+'</span></span><span style="color:var(--ac)">$'+(u.sum+FEE[u.ship])+'</span></h4>'+u.lines.map(l=>'<div class="row"><span>'+l.p.n+'. '+esc(l.p.name)+(l.opt?'（'+l.opt+'）':'')+'</span><b>×'+l.q+'　$'+price(l.p)*l.q+'</b></div>').join("")+'<div class="row"><span>運費</span><span>$'+FEE[u.ship]+'</span></div></div>').join("")+'</div>':'<p class="hint">還沒有訂單，左邊群組按「模擬喊單」或自己打 3+1。</p>';
- const g={};people.forEach(u=>(g[u.ship]=g[u.ship]||[]).push(u));
- $("#v-c").innerHTML=people.length?'<div style="display:grid;gap:10px">'+Object.entries(g).map(([s,L])=>'<div class="oc"><h4><span>📦 '+s+'（'+L.length+' 位）</span><span>代收合計 $'+L.reduce((a,u)=>a+u.sum+FEE[u.ship],0).toLocaleString()+'</span></h4>'+L.map(u=>'<div class="row"><span>'+esc(u.who)+'　'+u.lines.map(l=>l.p.n+(l.opt||"")+'×'+l.q).join("、")+'</span><b>'+(s==="面交"?'面交收':'貨到付款')+' $'+(u.sum+FEE[u.ship])+'</b></div>').join("")+'</div>').join("")+
- '<div class="note"><b>客人收到的結單通知（示意）</b>\n🧾 東京連線團 結單囉！\n'+people[0].lines.map(l=>l.p.n+'. '+l.p.name+(l.opt?'（'+l.opt+'）':'')+' ×'+l.q+'　$'+price(l.p)*l.q).join("\n")+'\n運費 $'+FEE[people[0].ship]+'（'+people[0].ship+'）\n💰 貨到付款 $'+(people[0].sum+FEE[people[0].ship])+'\n👉 點這裡確認寄送門市</div><div style="display:flex;gap:8px;flex-wrap:wrap"><button class="btn l" id="push">📣 傳結單通知給 '+people.length+' 位</button><button class="btn g" id="csv">⬇ 匯出出貨清單（Excel）</button></div></div>':'<p class="hint">有訂單後，這裡會依 7-11／全家／郵局／面交分好出貨清單和代收金額。</p>';
- const pb=$("#push");if(pb)pb.onclick=()=>toast("示意：已傳給 "+people.length+" 位客人");
- const cb=$("#csv");if(cb)cb.onclick=()=>{const rows=[["寄送","客人","號碼","品名","規格","數量","售價","小計"]];people.forEach(u=>u.lines.forEach(l=>rows.push([u.ship,u.who,l.p.n,l.p.name,l.opt,l.q,price(l.p),price(l.p)*l.q])));const b=new Blob([""+rows.map(r=>r.map(v=>'"'+String(v).replace(/"/g,'""')+'"').join(",")).join("\n")],{type:"text/csv"});const a=document.createElement("a");a.href=URL.createObjectURL(b);a.download="出貨清單.csv";a.click()};
+ $("#v-p").innerHTML=P.length?'<table class="tbl"><thead><tr><th></th><th>品名</th><th>客人可打的關鍵字</th><th>日幣</th><th>成本</th><th>售價</th><th>已喊／上限</th><th>結單日</th></tr></thead><tbody>'+P.map((p,i)=>{const pr=price(p),c=cost(p),g=pr-c,gr=pr?Math.round(g/pr*100):0,q=qty(p.id),soon=p.dl&&(new Date(p.dl)-today)/864e5<1.5;
+  return '<tr><td><div class="th" style="background:'+p.bg+'">'+p.e+'</div></td><td class="nm"><input data-i="'+i+'" data-f="name" value="'+esc(p.name)+'">'+(p.isNew?'<span class="auto">群組貼文自動上架</span>':'')+(p.opt?' <span class="auto" style="background:var(--soft);color:var(--ac)">'+p.opt.join("／")+'</span>':'')+'</td><td class="kw"><input data-i="'+i+'" data-f="kw" value="'+esc(p.kw)+'"></td><td><input data-i="'+i+'" data-f="jpy" type="number" value="'+p.jpy+'" style="width:64px;display:inline">¥</td><td>$'+c+'</td><td><input data-i="'+i+'" data-f="over" type="number" class="pr" value="'+pr+'" style="width:80px"><div class="gm'+(gr<15?' low':'')+'">毛利 $'+g+'（'+gr+'%）</div></td><td class="'+(p.fl?'flash':'')+'" style="white-space:nowrap"><span class="cnt">'+q+'</span> / <input data-i="'+i+'" data-f="lim" type="number" value="'+p.lim+'" style="width:52px;display:inline"></td><td><input data-i="'+i+'" data-f="dl" type="date" value="'+p.dl+'"><span class="dl'+(p.closed?' end':soon?' soon':'')+'">'+(p.closed?'已結單':soon?'快結單':'接單中')+'</span></td></tr>'}).join("")+'</tbody></table><p class="hint">商品是玲玲在群組貼照片＋打一行「品名 ¥日幣 限數量 款式 結單日」自動建立的。改日幣或匯率，成本、售價、毛利會自動重算。關鍵字可以自己加，例如「吉伊」「小可愛」，客人打哪個都能入單。</p>':'<div class="empty">還沒有商品。按左邊「▶ 播放一場直播」，看玲玲在群組貼照片後，商品自動出現在這裡。</div>';
+ P.forEach(p=>p.fl=0);
+ if(ae){const el=document.querySelector('#v-p [data-i="'+ae[0]+'"][data-f="'+ae[1]+'"]');if(el)el.focus()}
+ $("#v-o").innerHTML=U.length?'<div class="ord">'+U.map(u=>'<div class="oc"><h4><span>'+esc(u.who)+'<span class="ship">'+u.ship+'</span></span><span style="color:var(--ac)">$'+(u.sum+FEE[u.ship])+'</span></h4>'+u.lines.map(l=>'<div class="row"><span>'+esc(l.p.name)+(l.opt?'（'+l.opt+'）':'')+'</span><b>×'+l.q+'　$'+price(l.p)*l.q+'</b></div>').join("")+'<div class="row"><span>運費</span><span>$'+FEE[u.ship]+'</span></div></div>').join("")+'</div>':'<div class="empty">還沒有訂單。</div>';
+ $("#wc").hidden=!pending.length;$("#wc").textContent=pending.length;
+ $("#v-w").innerHTML=pending.length?'<div class="ord">'+pending.map((w,i)=>'<div class="oc pend"><span><b>'+esc(w.who)+'</b>：「'+esc(w.text)+'」</span><span><select data-w="'+i+'"><option value="">歸到哪個商品？</option>'+P.map(p=>'<option value="'+p.id+'">'+esc(p.name)+'</option>').join("")+'</select></span></div>').join("")+'</div><p class="hint">打錯字或看不懂的留言不會亂猜，放在這裡讓你選一下就入單。</p>':'<div class="empty">沒有待確認的留言 👍</div>';
+ document.querySelectorAll("[data-w]").forEach(s=>s.onchange=()=>{const w=pending[+s.dataset.w],p=byId(s.value);if(!p)return;const q=+(w.text.match(/\+\s*(\d+)/)||[0,1])[1];orders[w.who]=orders[w.who]||{};const k=p.id+"|";orders[w.who][k]=(orders[w.who][k]||0)+q;pending.splice(+s.dataset.w,1);render();toast("已入單："+w.who+" "+p.name+" ×"+q)});
+ const g={};U.forEach(u=>(g[u.ship]=g[u.ship]||[]).push(u));
+ $("#v-c").innerHTML=U.length?'<div style="display:grid;gap:10px">'+(closed?'<div class="note" style="background:var(--okbg);border-color:transparent"><b>✓ 已自動結單</b>　結單時間到，系統自動關單、在群組發公告，之後的 +1 不會再入單。</div>':'<div class="note" style="background:var(--warnbg);border-color:transparent">接單中。到結單日時間，系統會自動關單並整理下面的清單（可按左邊「模擬結單時間到」）。</div>')+Object.entries(g).map(([s,L])=>'<div class="oc"><h4><span>📦 '+s+'（'+L.length+' 位）</span><span>代收合計 $'+L.reduce((a,u)=>a+u.sum+FEE[u.ship],0).toLocaleString()+'</span></h4>'+L.map(u=>'<div class="row"><span>'+esc(u.who)+'　'+u.lines.map(l=>l.p.name.slice(0,6)+(l.opt?"("+l.opt+")":"")+'×'+l.q).join("、")+'</span><b>'+(s==="面交"?'面交收':'貨到付款')+' $'+(u.sum+FEE[u.ship])+'</b></div>').join("")+'</div>').join("")+
+ '<div class="note"><b>每位客人收到的私訊（以 '+esc(U[0].who)+' 為例）</b>\n🧾 玲玲東京連線團 結單囉！\n'+U[0].lines.map(l=>'・'+l.p.name+(l.opt?'（'+l.opt+'）':'')+' ×'+l.q+'　$'+price(l.p)*l.q).join("\n")+'\n運費 $'+FEE[U[0].ship]+'（'+U[0].ship+'）\n💰 貨到付款 $'+(U[0].sum+FEE[U[0].ship])+'\n👉 點這裡確認取貨門市</div><div style="display:flex;gap:8px;flex-wrap:wrap"><button class="btn l" id="push">📣 重新發送通知</button><button class="btn g" id="csv">⬇ 匯出出貨清單（Excel）</button></div></div>':'<div class="empty">有訂單後，這裡會依 7-11／全家／郵局／面交分好出貨清單和代收金額。</div>';
+ const pb=$("#push");if(pb)pb.onclick=()=>toast("示意：已私訊 "+U.length+" 位客人");
+ const cb=$("#csv");if(cb)cb.onclick=()=>{const rows=[["寄送","客人","品名","款式","數量","售價","小計"]];U.forEach(u=>u.lines.forEach(l=>rows.push([u.ship,u.who,l.p.name,l.opt,l.q,price(l.p),price(l.p)*l.q])));const b=new Blob([""+rows.map(r=>r.map(v=>'"'+String(v).replace(/"/g,'""')+'"').join(",")).join("\n")],{type:"text/csv"});const a=document.createElement("a");a.href=URL.createObjectURL(b);a.download="出貨清單.csv";a.click()};
 }
 $("#v-p").addEventListener("change",e=>{const el=e.target,i=el.dataset.i,f=el.dataset.f;if(i==null)return;const p=P[i],v=el.value;
- if(f==="over"){p.over=+v===price({...p,over:null})?null:+v}else if(f==="jpy"||f==="lim"||f==="n"){p[f]=+v}else p[f]=v;render();toast("已存檔，群組商品資訊同步更新")});
+ if(f==="over"){p.over=+v===price({...p,over:null})?null:+v}else if(f==="jpy"||f==="lim"){p[f]=+v}else p[f]=v;render();toast("已存檔，馬上生效")});
 ["fx","mul","add"].forEach(id=>$("#"+id).addEventListener("input",()=>{P.forEach(p=>p.over=null);render()}));
 $("#mode").onchange=()=>{const x=$("#mode").value==="x";$("#lx").hidden=!x;$("#lp").hidden=x;P.forEach(p=>p.over=null);render()};
-document.querySelectorAll(".tabs button").forEach(b=>b.onclick=()=>{document.querySelectorAll(".tabs button").forEach(x=>x.classList.toggle("on",x===b));["p","o","c"].forEach(t=>$("#v-"+t).hidden=t!==b.dataset.t)});
-document.querySelectorAll("[data-q]").forEach(b=>b.onclick=()=>say("你",b.dataset.q));
-$("#f").onsubmit=e=>{e.preventDefault();const v=$("#in").value.trim();if(v){$("#in").value="";say("你",v)}};
-P.slice(0,2).forEach(post);
-const S=[["小美","+1"],["Joyce","粉色+1"],["佩佩","5 白色+2"],["阿凱媽咪","3+2",3],()=>post(P[2]),["Wendy","+1"],["Tina","7+3"],["小葉","3+1"],()=>post(P[3]),["小美","12+1"],["Joyce","+1 謝謝玲玲～"],()=>post(P[4]),["Tina","+2"],["小美","取消 3"],["Wendy","18+1"]];
-let run=0;$("#sim").onclick=()=>{if(run)return;run=1;let i=0;const go=()=>{if(i>=S.length){run=0;toast("右邊後台已即時整好單 👉");return}const s=S[i++];if(typeof s==="function")s();else say(s[0],s[1],s[2]);$("#chat").scrollTop=1e6;setTimeout(go,550)};go()};
+document.querySelectorAll(".tabs button").forEach(b=>b.onclick=()=>{document.querySelectorAll(".tabs button").forEach(x=>x.classList.toggle("on",x===b));["p","o","w","c"].forEach(t=>$("#v-"+t).hidden=t!==b.dataset.t)});
+document.querySelectorAll("[data-q]").forEach(b=>b.onclick=()=>{if(!P.length){toast("先按「播放一場直播」讓玲玲上架商品");return}say("你",b.dataset.q,b.dataset.r?P[0].photo:null)});
+$("#f").onsubmit=e=>{e.preventDefault();const v=$("#in").value.trim();if(!v)return;if(!P.length){toast("先按「播放一場直播」讓玲玲上架商品");return}$("#in").value="";say("你",v)};
+$("#close").onclick=()=>{if(!P.length){toast("先播放直播產生訂單");return}doClose()};
+const S=[()=>sellerPhoto("吉伊卡哇"),()=>sellerText("吉伊卡哇絨毛吊飾 ¥1650 限20 粉色/白色 12/5結單"),["小美","+1 粉"],["Joyce","吉伊卡哇 白色+2"],["佩佩","粉色+1"],
+ ()=>sellerPhoto("北海道牛奶夾心餅"),()=>sellerText("北海道牛奶夾心餅12入 ¥1080 限40 12/5結單"),["阿凱媽咪","+2"],["Wendy","夾心餅+1"],["小葉","吉依卡哇+1"],
+ ()=>sellerPhoto("抹茶生巧克力"),()=>sellerText("抹茶生巧克力20入 ¥1944 限25 12/4結單"),["Tina","抹茶+2"],["小美","+1",  "吉伊卡哇"],["Joyce","+1 謝謝玲玲～"],
+ ()=>sellerPhoto("保濕面膜"),()=>sellerText("保濕面膜7片 ¥990 限50 12/5結單"),["Wendy","面膜+3"],["Tina","取消抹茶"],["佩佩","+1"],["阿凱媽咪","我要兩個餅乾 +2"]];
+let run=0;$("#sim").onclick=()=>{if(run)return;if(P.length){location.reload();return}run=1;$("#sim").textContent="播放中…";let i=0;const go=()=>{if(i>=S.length){run=0;$("#sim").textContent="↺ 重新播放";toast("看右邊：商品、訂單都自動整理好了 👉");return}const s=S[i++];if(typeof s==="function")s();else say(s[0],s[1],s[2]);setTimeout(go,typeof s==="function"?900:1100)};go()};
 render();
 </script></body></html>
